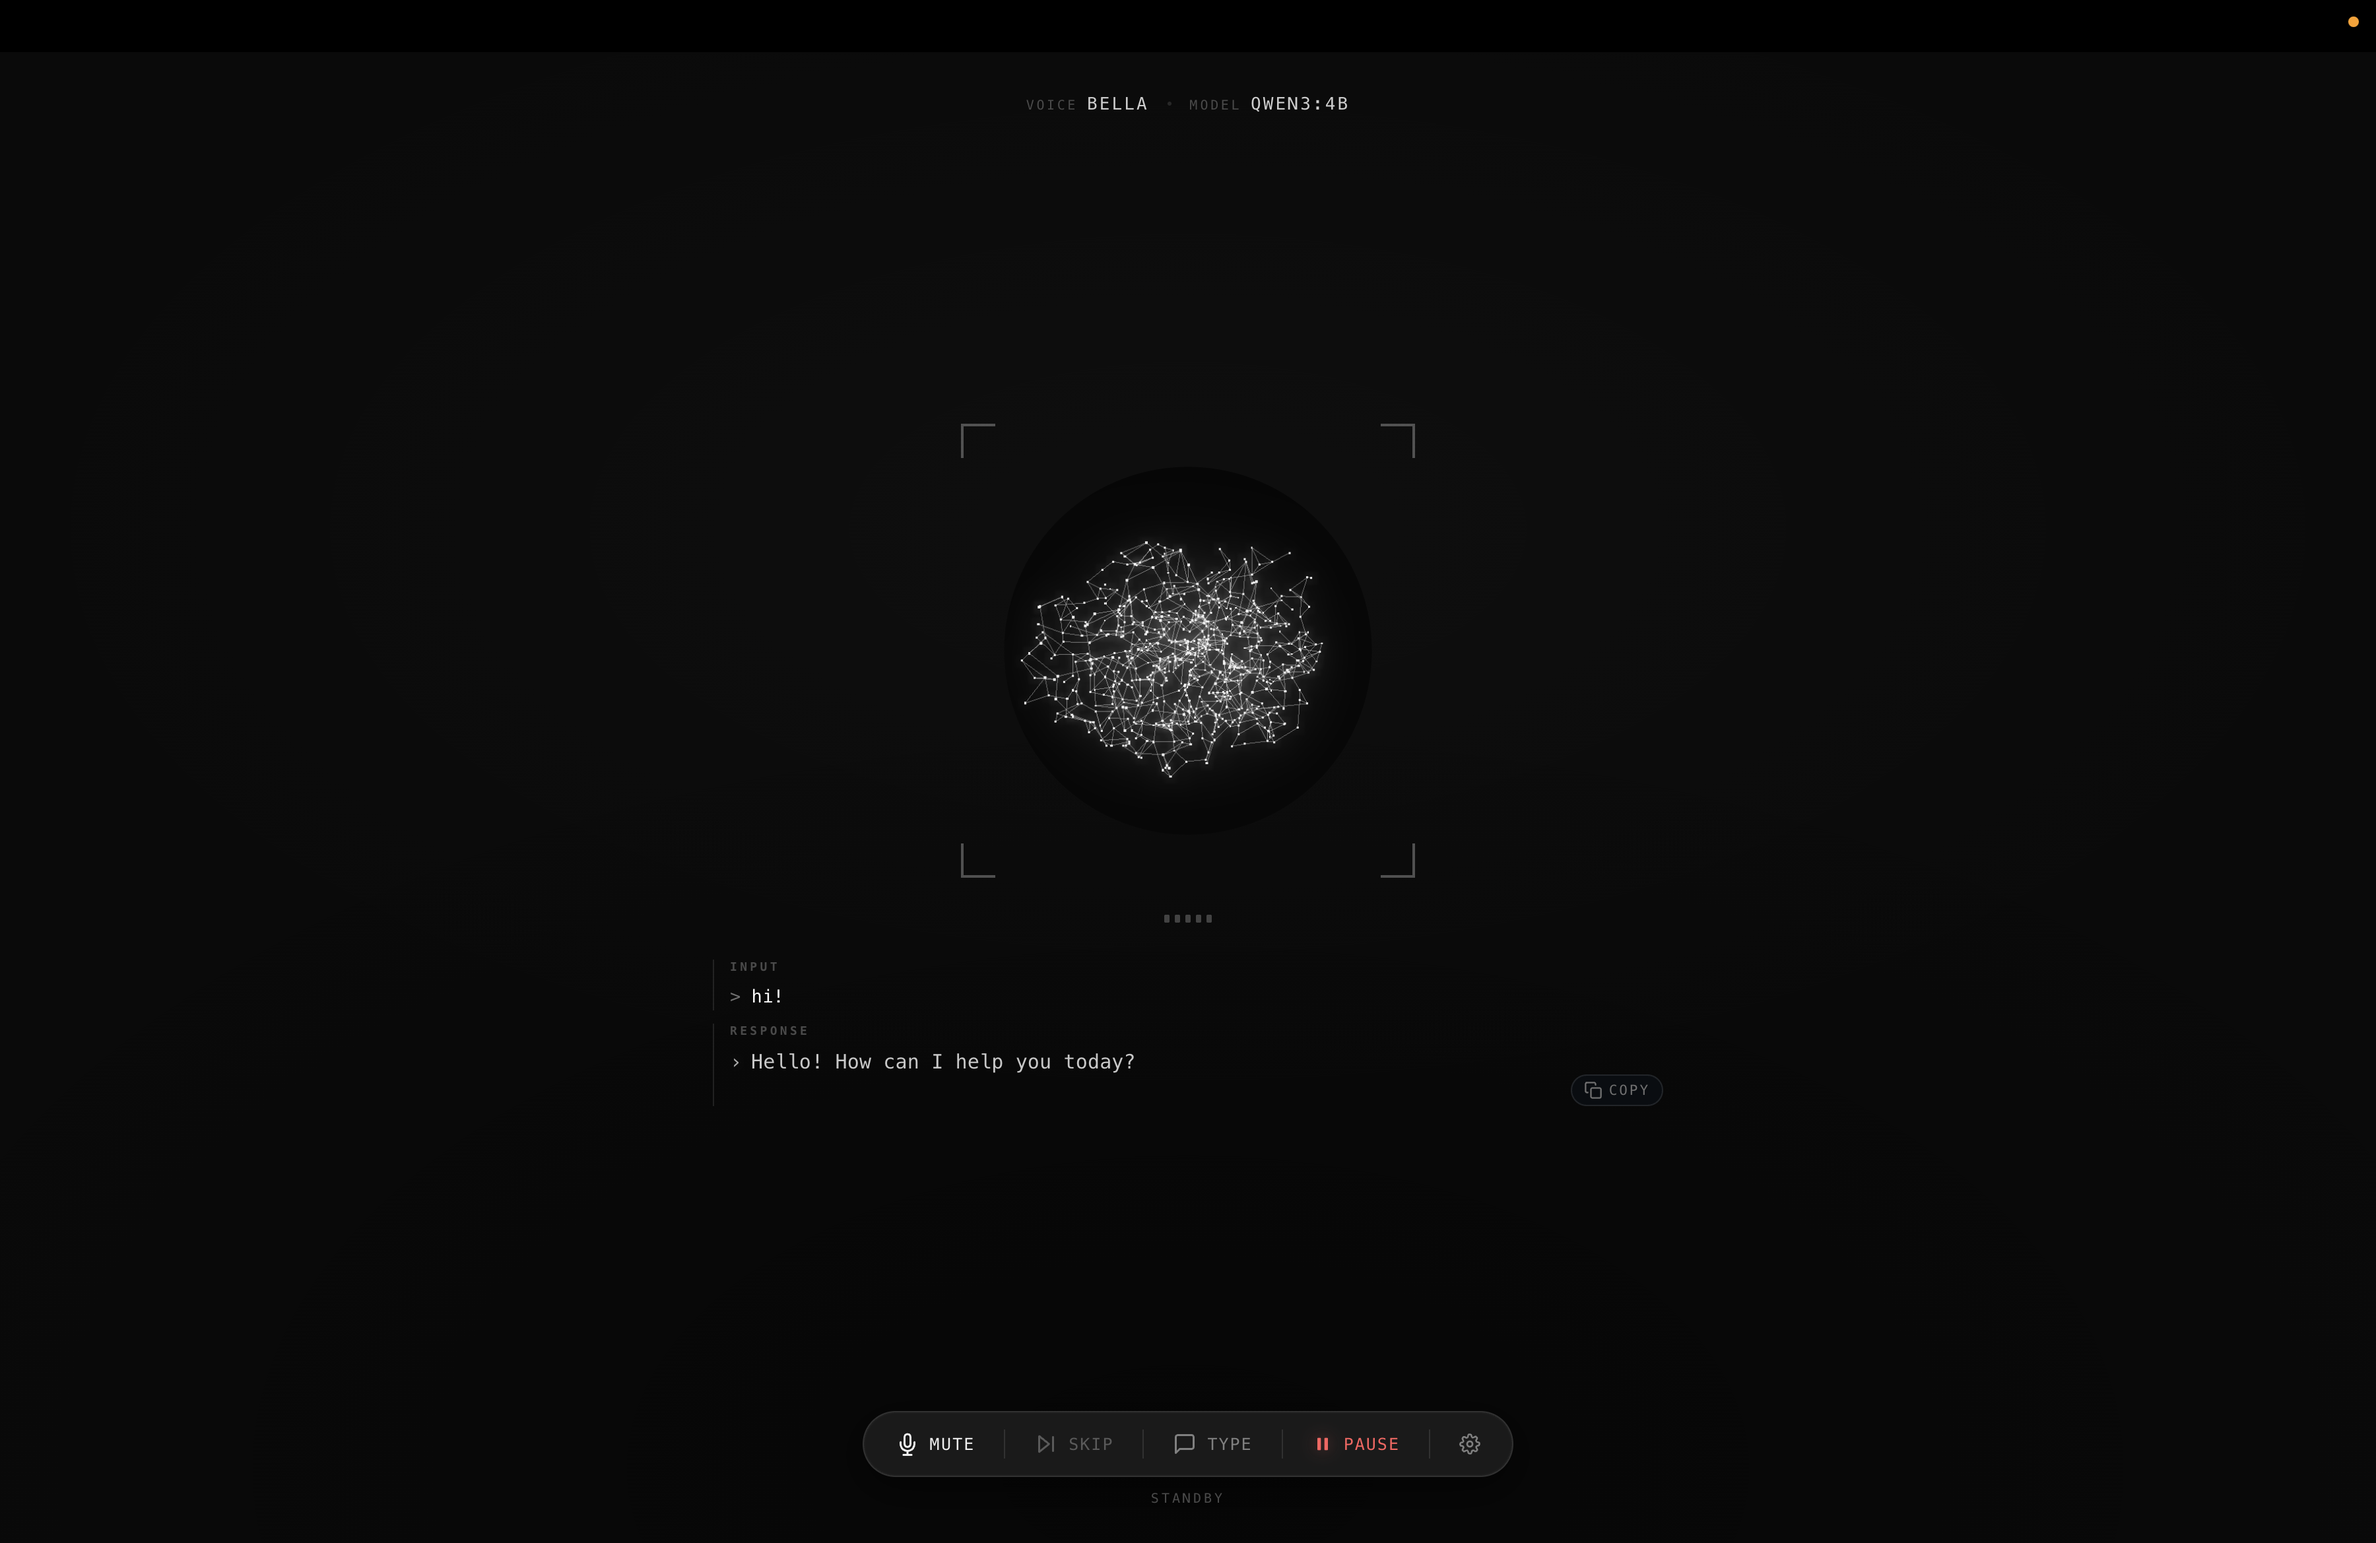
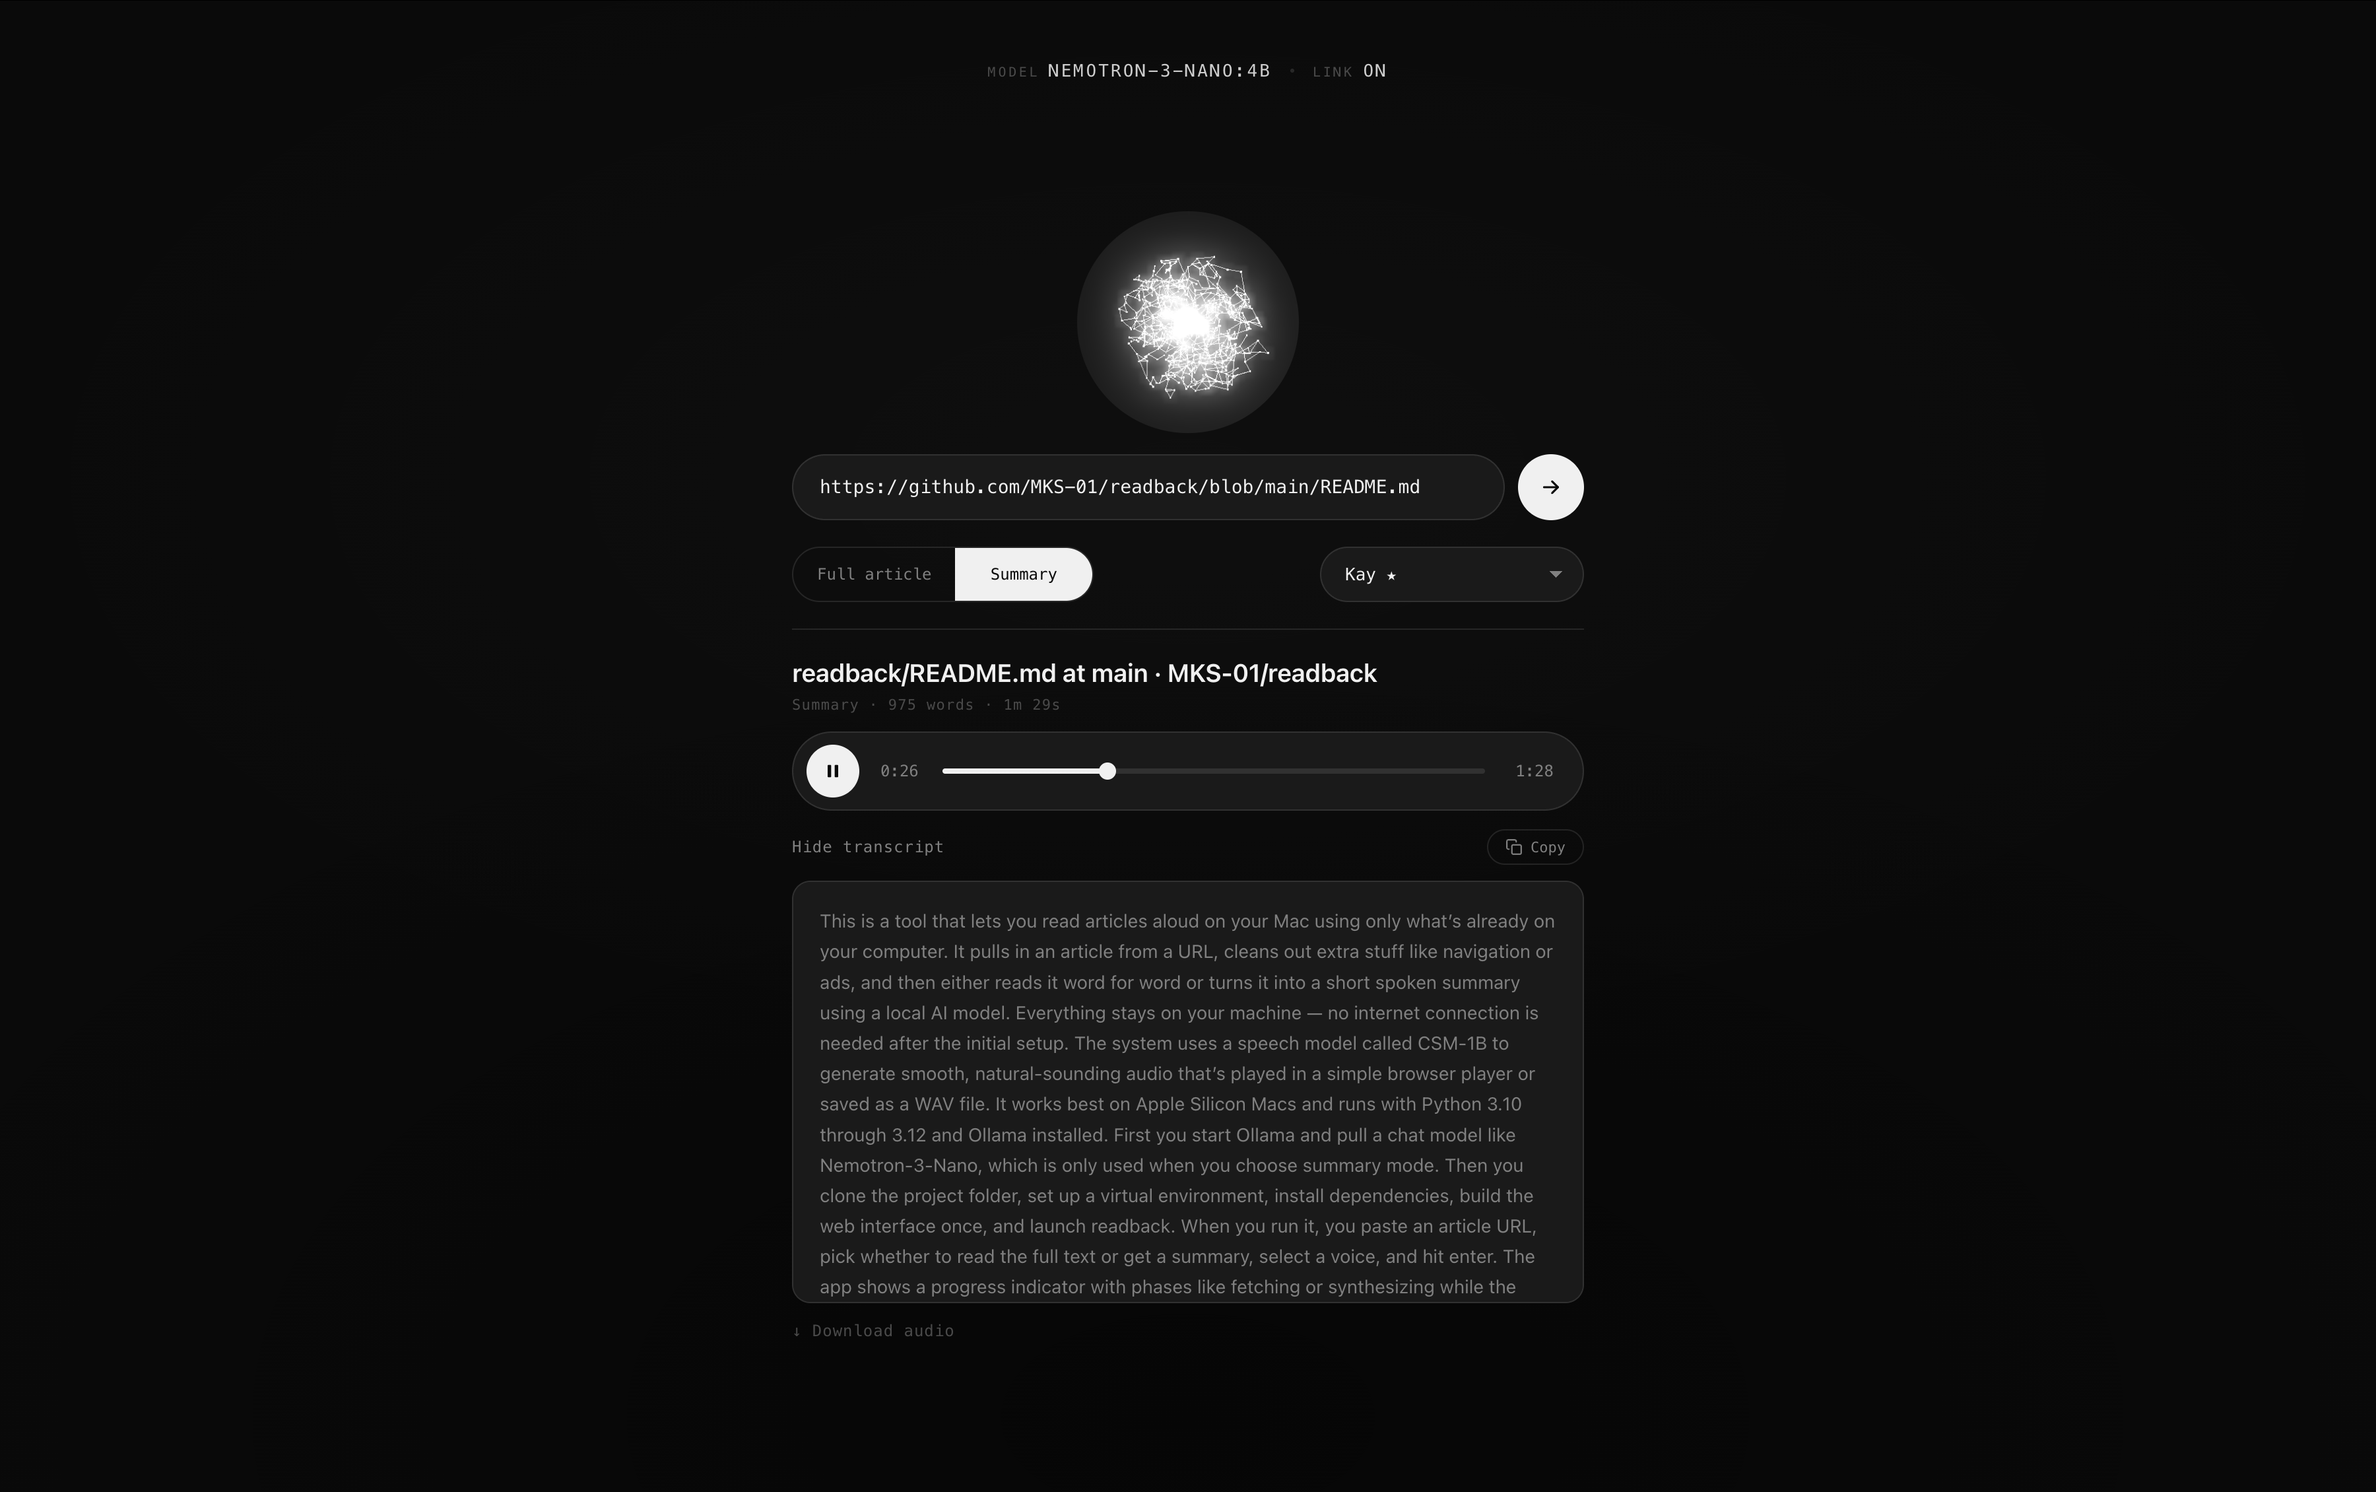
doc update

diff --git a/README.md b/README.md
@@ -1,6 +1,7 @@
 # readback
 
-> Paste an article URL, get it read aloud in a natural voice — or a spoken summary of it. Fetch → extract → (optional LLM summary) → on-device neural TTS → listen in the browser or download the audio. Fully local. No cloud, no API keys, nothing leaves your machine.
+📖 **Your private article reader.** Paste a URL and let it fetch, summarize (optional), and narrate — all on-device with offline neural TTS. Your articles never leave your machine; no API keys required.
+
 
 ![Python](https://img.shields.io/badge/Python-3.10+-3776AB?style=flat-square&logo=python&logoColor=white)
 ![Platform](https://img.shields.io/badge/Platform-Apple_Silicon-black?style=flat-square&logo=apple&logoColor=white)
@@ -14,6 +15,9 @@
 1. **Paste a URL.** readback fetches the page and extracts the clean article text (no nav, ads, or boilerplate).
 2. **Pick a mode.** *Full article* reads the text verbatim; *Summary* has a local LLM turn it into a tight spoken explanation first.
 3. **Listen.** The text is synthesized offline with **CSM-1B** (Sesame's neural speech model) and played in a minimalist browser player — or downloaded as a WAV. In Summary mode you can also reveal and copy the spoken text.
+
+![Preview — shows the custom audio player and orbital synthesis state. Toggle Full/Summary mode; note how three.js point cloud orbits while synthesizing N/M chunks](screenshots/screenshot-one.png "readback article reader")
+<!-- Show full article → then toggle to summary with transcript visible, orb animates during synthesis -->
 
 Everything runs on-device on Apple Silicon. The only model that touches the network is whatever you've already pulled into Ollama locally.
 
